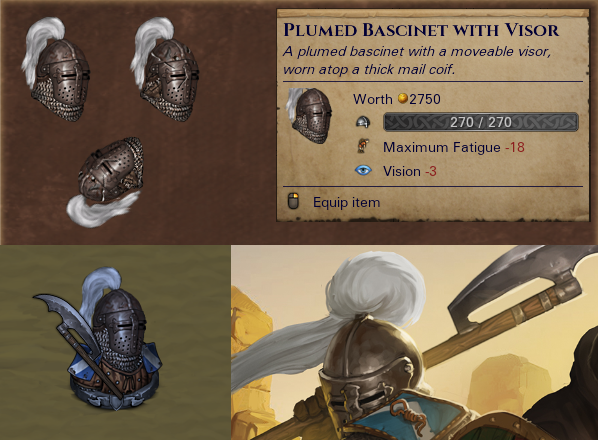
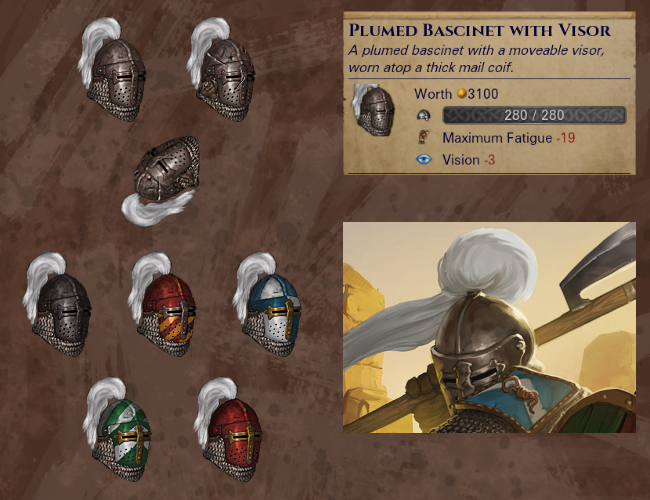
Release v3.5
Changelog:
- Adds a new helmet, the Bascinet with Klappvisier, with paint variants
  - 270/-18 statblock, slotting it right under the Closed Flat Top with
    Mail
  - Can spawn on Hedge Knights and in Armorsmiths
- Slightly tweaks and adds paint variants for the Plumed Bascinet with
  Visor
  - Now has a 280/-19 statblock (was 270/-18), matching the
    pre-modifier stats of the Heraldic Mail Helmet
  - Can now spawn on Knights

diff --git a/README.md b/README.md
@@ -21,7 +21,8 @@ Adds new equipment to the game, including:
 - **[Masked Nomad Light Helmet](./screenshots/MaskedLightNomadHelmetItemCard.png)**, a 90/-4 piece of headgear with 8 color variants and a named version. Spawns on Nomad Outlaws and recruitable Nomads, the named version is only appears in shops/loot.
 - **[Southern Conic Helmet with Closed Mail](./screenshots/SouthernConicHelmetWithClosedMailItemCard.png)**, a 235/-15 helmet southern helmet. Spawns in City-State Armorsmiths and on Officers.
 - **[Barbute with Visor](./screenshots/BarbuteWithVisorItemCard.png)**, a 240/-13 helmet with 5 color variants (it's paintable!). Spawns (very occasionally) in Armorsmiths, just like the regular barbute.
-- **[Plumed Bascinet with Visor](./screenshots/BascinetWithVisorItemCard.png)**, a 270/-18 helmet to match the the Blazing Deserts cover art. Spawns in Armorsmiths and on Hedge Knights.
+- **[Bascinet with Klappvisier](./screenshots/BascinetWithKlappvisierItemCard.png)**, a 270/-18 helmet with 5 color variants based on [item AK204782](https://objekt.db.dhm.de/objekt/AK204782) in the German Historical Museum. Spawns in Armorsmiths and on Hedge Knights.
+- **[Plumed Bascinet with Visor](./screenshots/BascinetWithVisorItemCard.png)**, a 280/-19 helmet with 5 color variants to match the the Blazing Deserts cover art. Spawns in Armorsmiths, on Hedge Knights, and on Knights.
 - **[Closed Conic Helmet](./screenshots/ClosedConicHelmetItemCard.png)**, a 3 tiered set of helms to match the Closed Flat Top Helmets (145/-8, 160/-9, and 250/-16). Spawns in Armorsmiths, and some varieties can spawn on Mercenaries.
 - **[Decorated Great Helm](./screenshots/DecoratedGreatHelmItemCard.png)**, a 325/-23 helmet with 3 color variants. Spawns on Oathtakers and Oathbringers.
 
@@ -43,13 +44,13 @@ Adds new equipment to the game, including:
 
 ## Customization
 
-It is fairly straightforward to remove an item from showing up in a campaign if you don't like it by removing the relevant script. Suppose you want to remove the Iron Pot Helm - to do so:
+It is fairly straightforward to remove an item from showing up in a campaign if you don't like it by removing the relevant script. Suppose you want to remove the Decorated Great Helm - to do so:
 
 1) Unzip the mod
-2) Navigate to the `scripts/!mods_preload/` folder and delete the `mod_sae_iron_pot_helm.cnut` file
+2) Navigate to the `scripts/!mods_preload/` folder and delete the `mod_sae_decorated_great_helm.cnut` file
 3) Rezip the mod
 
-This should be safe to do mid-campaign as long as you don't delete the corresponding script in the `items` folder (e.g. `scripts/items/iron_pot_helm`); that will prevent loading a save or cause crashes if those items already exist in a stash somewhere, e.g. a shop or the player stash. It might take some time for items to despawn from e.g. shops.
+This should be safe to do mid-campaign as long as you don't delete the corresponding script in the `items` folder (e.g. `scripts/items/decorated_great_helm`); that will prevent loading a save or cause crashes if those items already exist in a stash somewhere, e.g. a shop or the player stash. It might take some time for items to despawn from e.g. shops.
 
 ## Compatibility
 

diff --git a/screenshots/README.md b/screenshots/README.md
@@ -20,9 +20,13 @@
 
 <img src="./BarbuteWithVisorItemCard.png" width="600">
 
+## Bascinet with Klappvisier
+
+<img src="./BascinetWithKlappvisierItemCard.png" width="780">
+
 ## Plumed Bascinet with Visor
 
-<img src="./BascinetWithVisorItemCard.png" width="598">
+<img src="./BascinetWithVisorItemCard.png" width="650">
 
 ## Closed Conic Helmet
 
